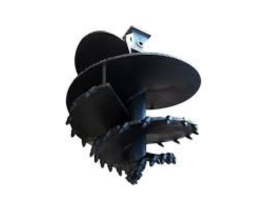
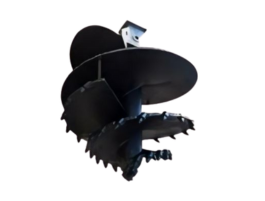
img updated

Changed region(s): [[0.2113, 0.0896, 0.7849, 0.9254], [0.3925, 0.6567, 0.4226, 0.6866]]

diff --git a/index.html b/index.html
@@ -367,7 +367,7 @@
                 <div class="col-md-3 col-sm-6 col-xs-12 a2 a1 single-filter-item oil ">
                     <div class="single-portfolio-style-two">
                         <div class="img-box">
-                        <img src="img/new/product/p_1_1.jpg" alt="Awesome Image"/>
+                        <img src="img/new/product/p_1_1.png" alt="Awesome Image"/>
                             
                         </div><!-- /.img-box -->
                     </div><!-- /.single-portfolio-style-two -->
